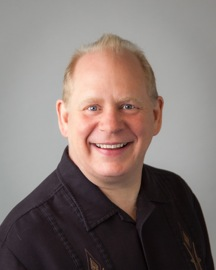
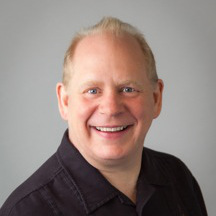
added pollyanna, squared bob's photo

diff --git a/index.html b/index.html
@@ -200,14 +200,38 @@ He is the founder and Chair of the AgileDC conference and is involved and speaks
         </p>
       </div>
 
-      <div class="col-md-6 centered">
-        <img class="img img-circle img-md" src="assets/img/speakers/unknown.jpg" alt="">
+      <div class="col-md-6 centered" id="pollyanna-pixton">
+        <img class="img img-circle img-md" src="assets/img/speakers/pollyanna-pixton.jpg" alt="">
         <br>
         <h4><b>Pollyanna Pixton</b></h4>
         <!--<a href="#" class="icon icon-twitter"></a>-->
         <!--<a href="#" class="icon icon-facebook"></a>-->
         <!--<a href="#" class="icon icon-flickr"></a>-->
-        <p></p>
+        <p>An international collaborative leadership expert, Pollyanna Pixton developed the models for
+collaboration and collaborative leadership through her over forty years of working inside 
+and consulting with corporations and organizations. She helps companies create workplaces 
+where talent and innovation are unleashed—making them more productive, efficient, and 
+profitable.</p>
+
+<p>Pollyanna is a founding partner of Accelinnova, a consulting firm for leaders transforming 
+their organization. She speaks and writes on topics of creating cultures of trust, leading 
+collaboration, and business agility. Her models are found in the books she co-authored, 
+<i>The Agile Culture: Leading though Trust and Ownership</i>, (Addison Wesley Professional, 
+March 2014) and <i>Stand Back and Deliver: Accelerating Business Agility</i>, (Addison Wesley 
+Professional, July 2009).</p>
+
+<p>Ms. Pixton was primarily responsible for building the Swiss Electronic Stock Exchange, 
+developing sophisticated control systems for electrical power-plants throughout the world, 
+and converting complex technologies and data systems to merge large financial institutions. 
+Her background includes leading the development of e-commerce projects, real-time 
+applications, positioning systems, and original computational research. In 2004, she was 
+selected as one of thirty Visionary Women to Watch, a program that recognizes women 
+who bring new insight to their fields, and in 2010 she was selected for achieving that vision 
+as 30 Women to Watch, awarded by Utah Business Magazine. Pollyanna is a sought-after 
+keynote speaker and lecturer at universities in the areas of business ethics, organizational 
+development, and collaborative leadership.</p>
+<p>
+Her education includes a master’s degree in computer science, three years of graduate studies in theoretical physics, and a bachelor’s degree in mathematics. Contact her at ppixton@accelinnova.com.</p>
       </div>
 
       <div class="col-md-6 centered">
@@ -320,6 +344,21 @@ Natalie is a Certified ScrumMaster (CSM) and has her Bachelor of Business Admini
         </div>
       </div>
 
+      <div class="col-md-6 centered">
+        <div class="col-md-4">
+          <a href="#pollyanna-pixton" class="smoothScroll">
+            <img class="img img-circle img-sm" src="assets/img/speakers/pollyanna-pixton.jpg" alt="">
+          </a>
+          <br>
+          <h4>Pollyanna Pixton</h4>
+        </div>
+        <div class="col-md-8">
+          <h4><b>Building a Culture for High Performance Teams</b></h4>
+          <p>We know that teams and individuals that take ownership of their work out perform those that don’t, often by 50%! For high performance teams, ownership is essential. But, leaders struggle letting their teams take ownership. Why? They are afraid if they trust their teams, they will not take ownership and fail. Leaders must create a culture of trust and help their teams take ownership. But what is the team builds the wrong product? Teams must align with the strategy and purpose of the business as well as value to the customer. Finally, the organization must deal honestly with ambiguity. Uncertainty is the new normal.
+</p>
+<p>How do teams, individuals and leaders address these issues? Pollyanna provides you with the tools to create a culture of trust by dealing with fear of collaboration; helping teams take ownership through asking questions and not giving answers (“How do you want to solve it?”); aligning with the business by using decision filters based on a business value conversation; and finally, helping teams show real progress and not committing until all risks are within an acceptable range.</p>
+        </div>
+      </div>
 
 
     </div>
